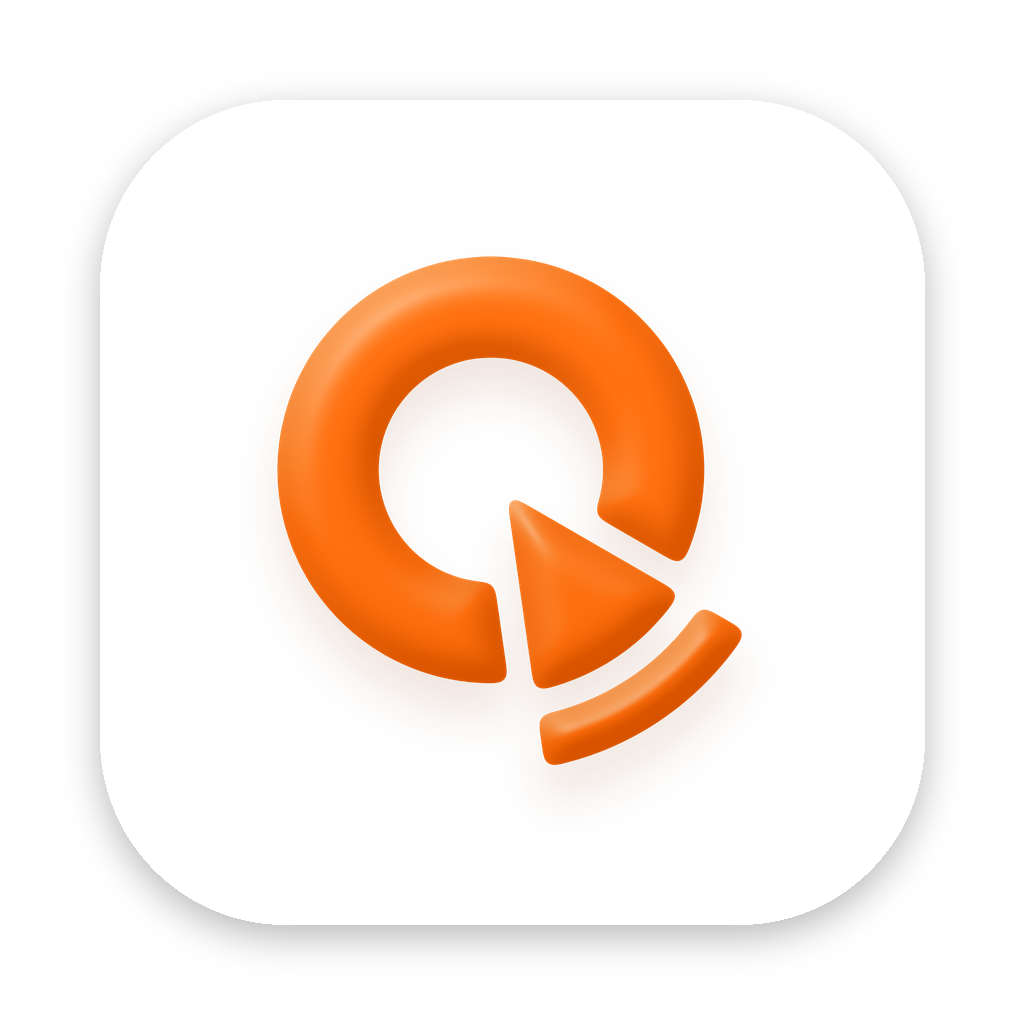
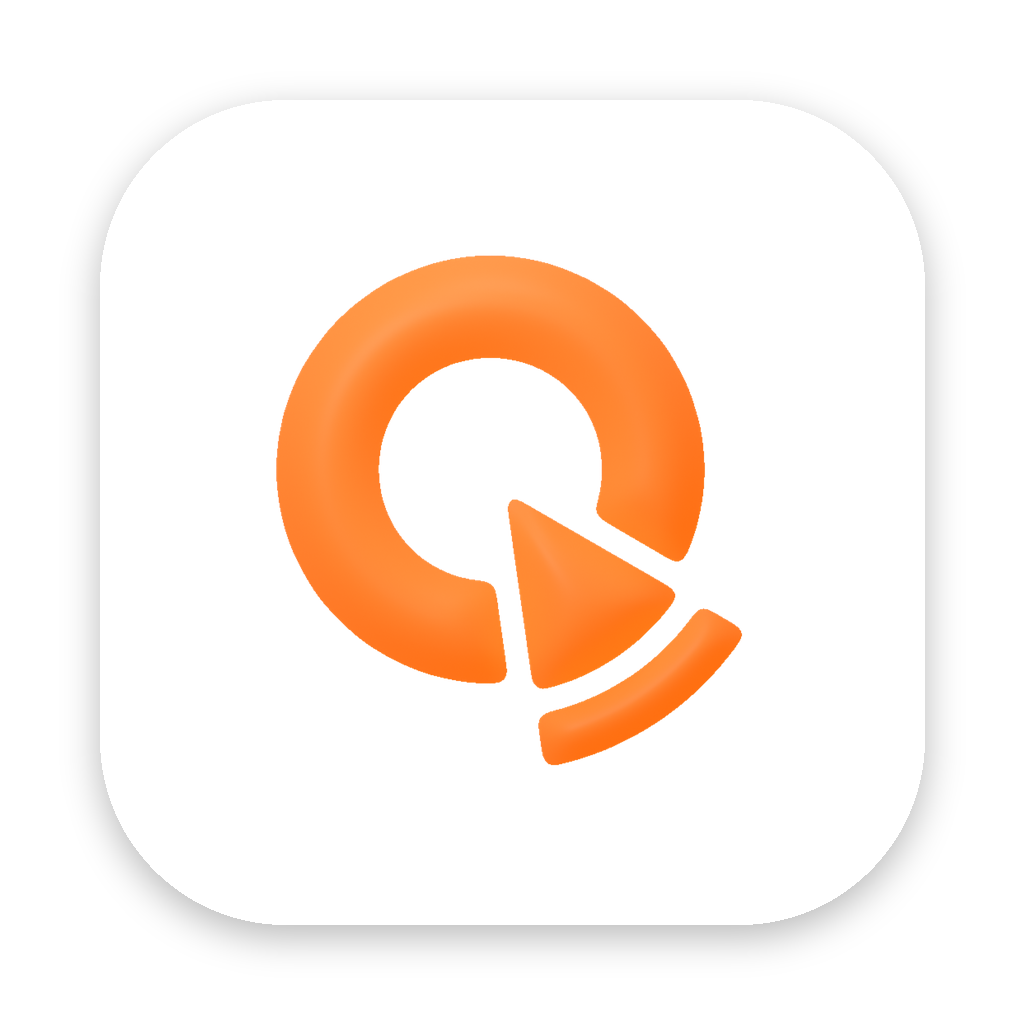
feat(brand): 앱 아이콘 세트를 Blender 말랑 점토 3D로 다시 만듦
app-icon, app-icon-macos, apple-touch, symbol.png, 데스크톱 icon, og. 그늘은 브랜드 색 그대로, 그림자 없음.

Claude-Session: https://claude.ai/code/session_011XUPzQwUTy2QBAmKAmrj3h

Changed region(s): [[0.25, 0.25, 0.7188, 0.75]]

diff --git a/scripts/brand-icons/build.py b/scripts/brand-icons/build.py
@@ -75,7 +75,7 @@ def main():
         f'<svg xmlns="http://www.w3.org/2000/svg" viewBox="{vb}"><title>sweeTwo</title>{paths}</svg>')
     # og: 왼쪽 심볼 자리만 3D 심볼로(워드마크는 그대로)
     og = Image.open(p('apps/site/public/og.png')).convert('RGBA')
-    ImageDraw.Draw(og).rectangle((215, 175, 480, 455), fill=(255, 255, 255, 255))
+    ImageDraw.Draw(og).rectangle((190, 150, 505, 500), fill=(255, 255, 255, 255))
     s3 = sym3d(420, 0.60)
     og.alpha_composite(s3, (347 - 210, 315 - 210)); og.convert('RGB').save(p('apps/site/public/og.png'), optimize=True)
 
